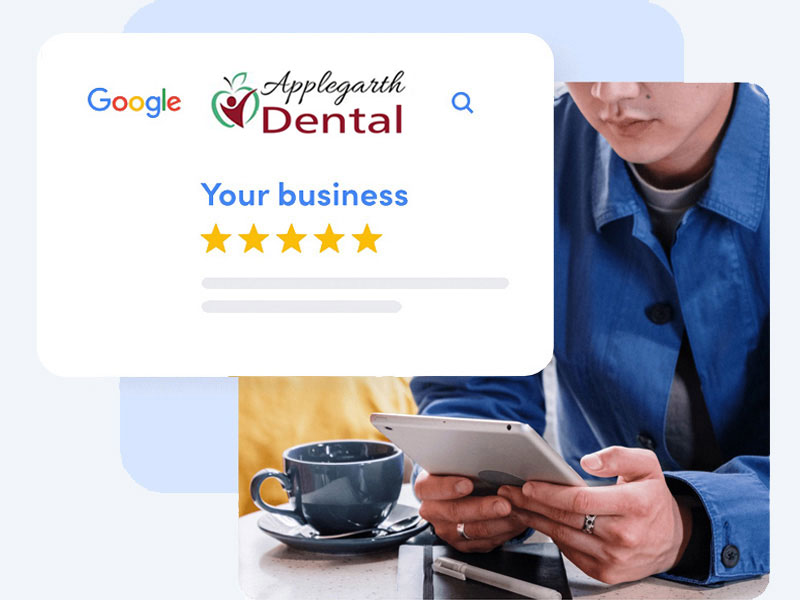
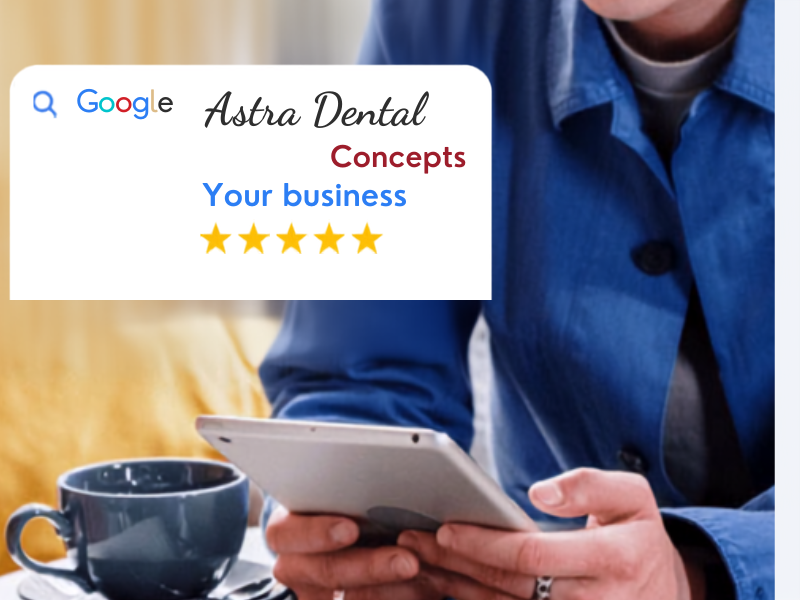
change the reviews

diff --git a/reviews.html b/reviews.html
@@ -159,7 +159,7 @@
                         <div class="animatable fadeInUp">
                             <div class="review_img">
                                 <a href="https://www.google.com/maps/place/Applegarth+Dental+%26+Spa/@40.2783567,-74.5350556,17z/data=!4m8!3m7!1s0x89c3df2dce06e71b:0x40062a5a0adf9454!8m2!3d40.2783527!4d-74.5301847!9m1!1b1!16s%2Fg%2F11ghfcvyvf?entry=ttu&g_ep=EgoyMDI1MDcxMy4wIKXMDSoASAFQAw%3D%3D" target="_blank">
-                                    <img src="images/reviews.jpg" alt="" class="img-responsive">
+                                    <img src="images/reviews_g.jpg" alt="" class="img-responsive">
                                     <!-- <img src="images/testim.jpg" alt="" class="img-responsive" id="review_img"> -->
                                 </a>
                             </div>
